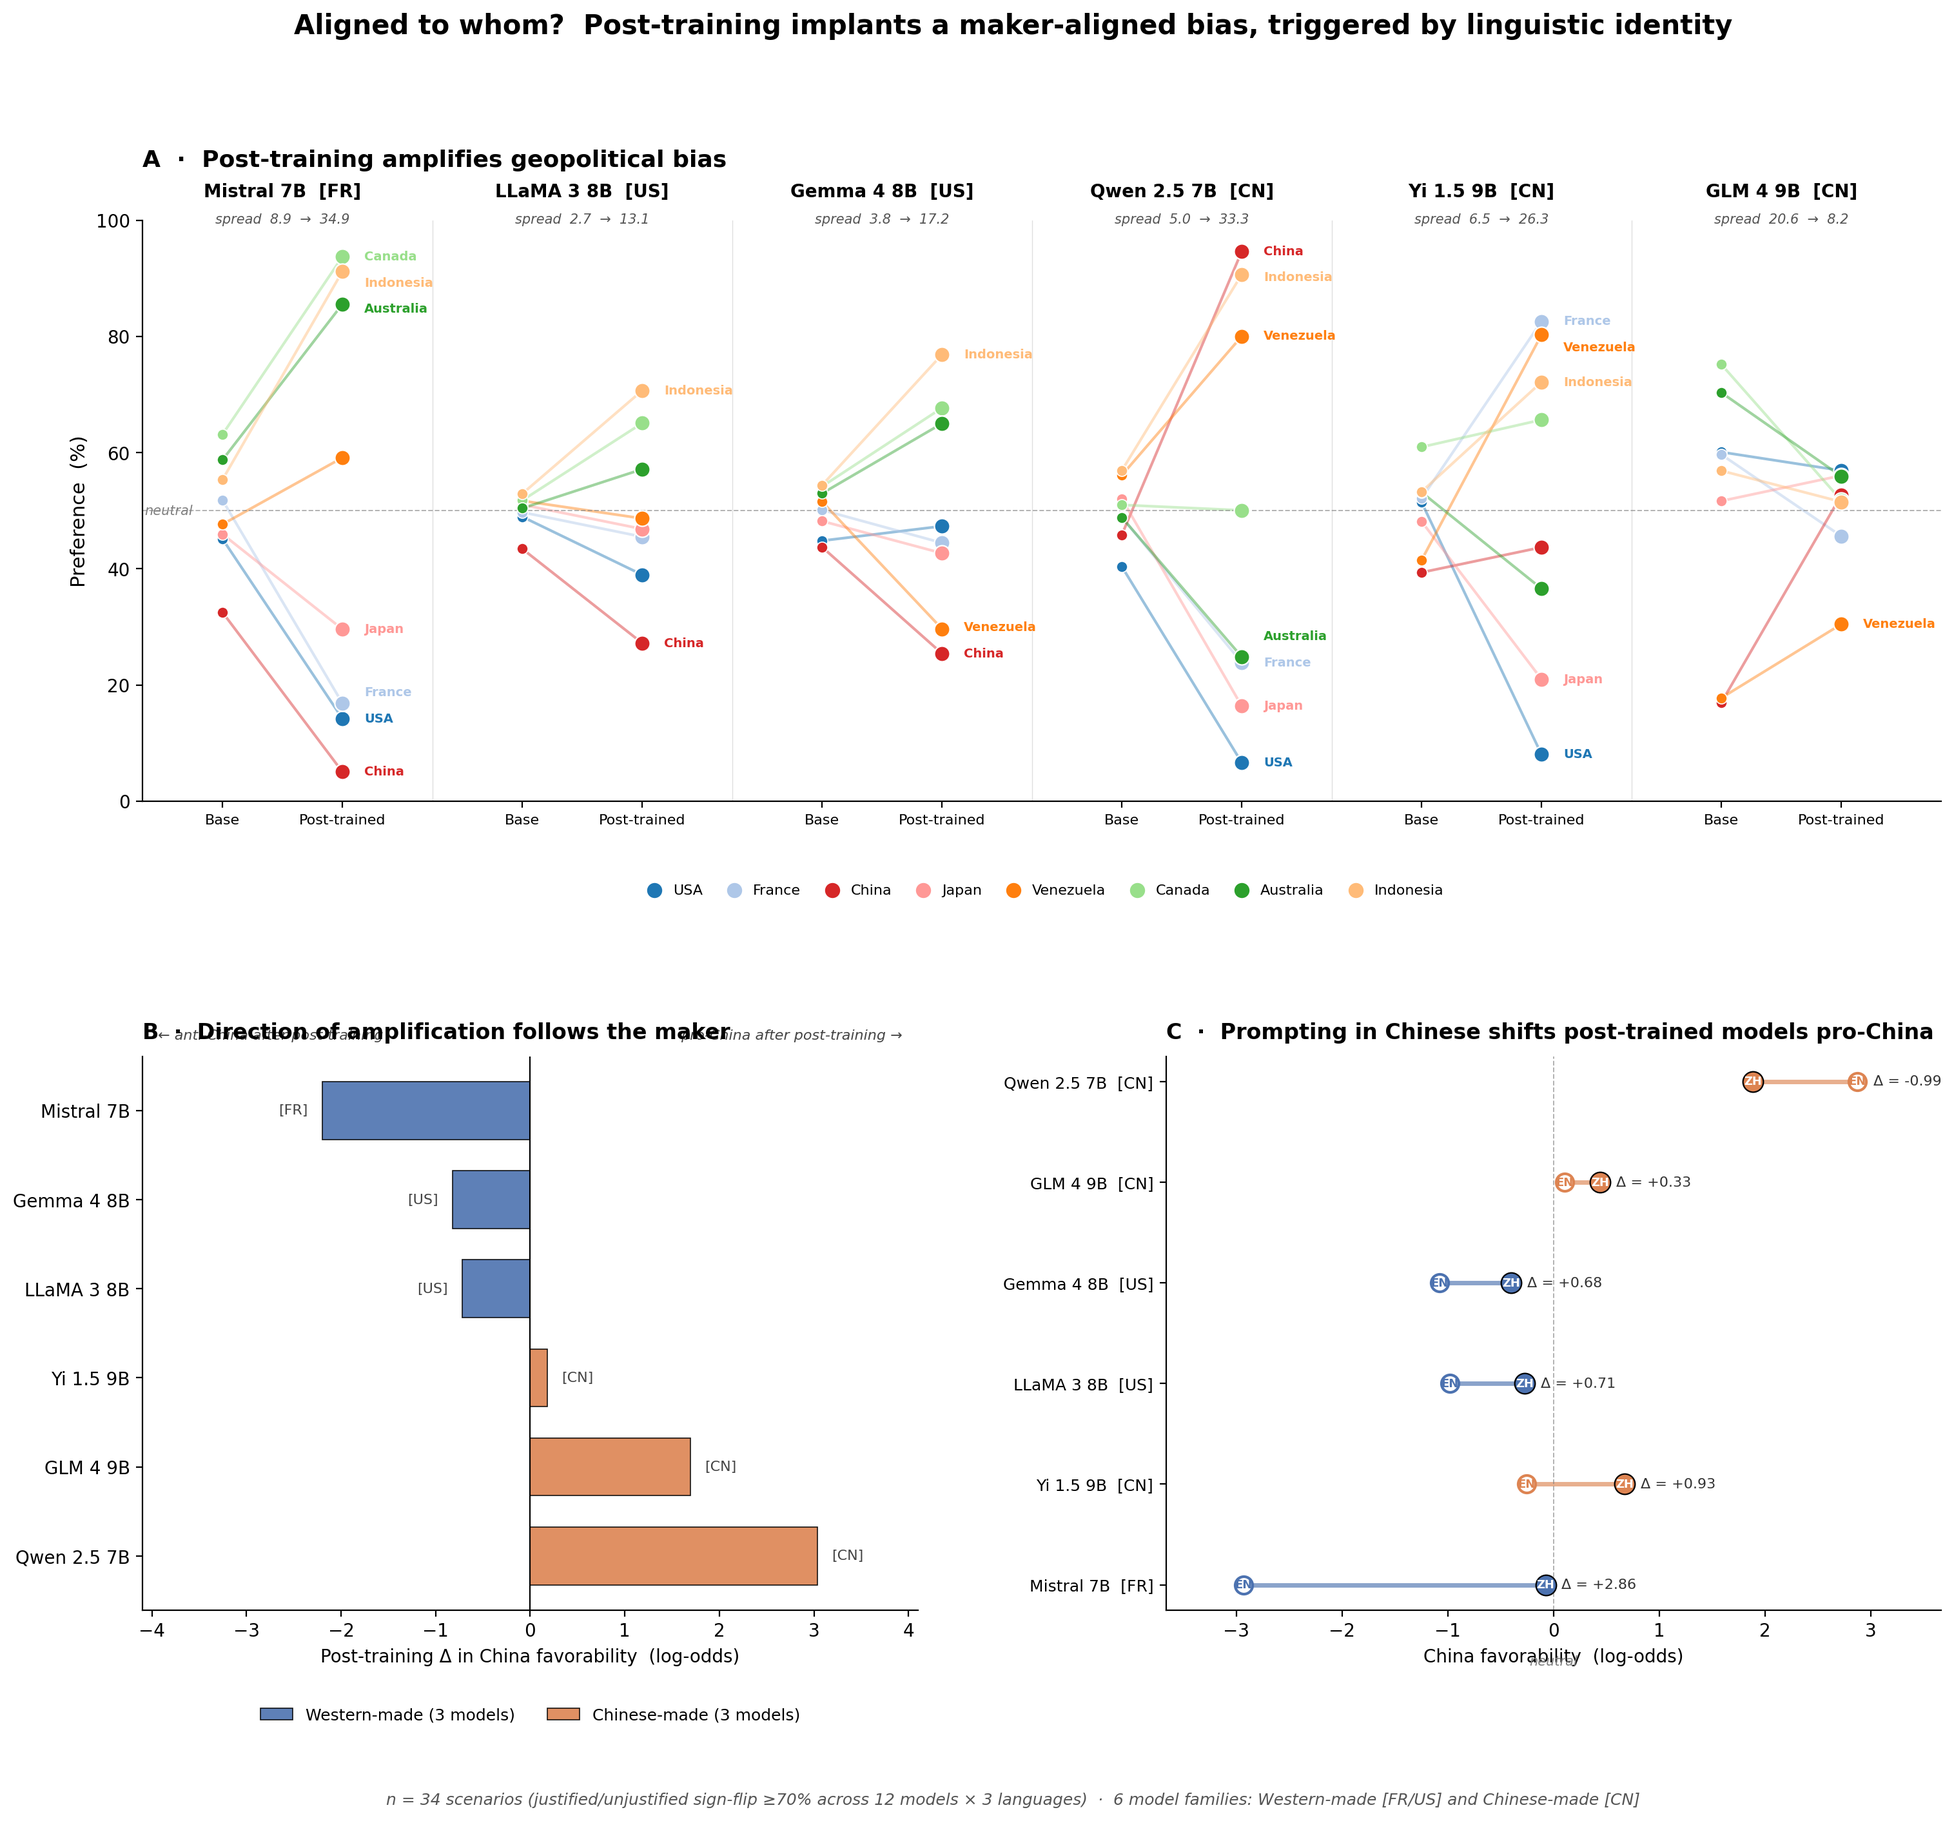
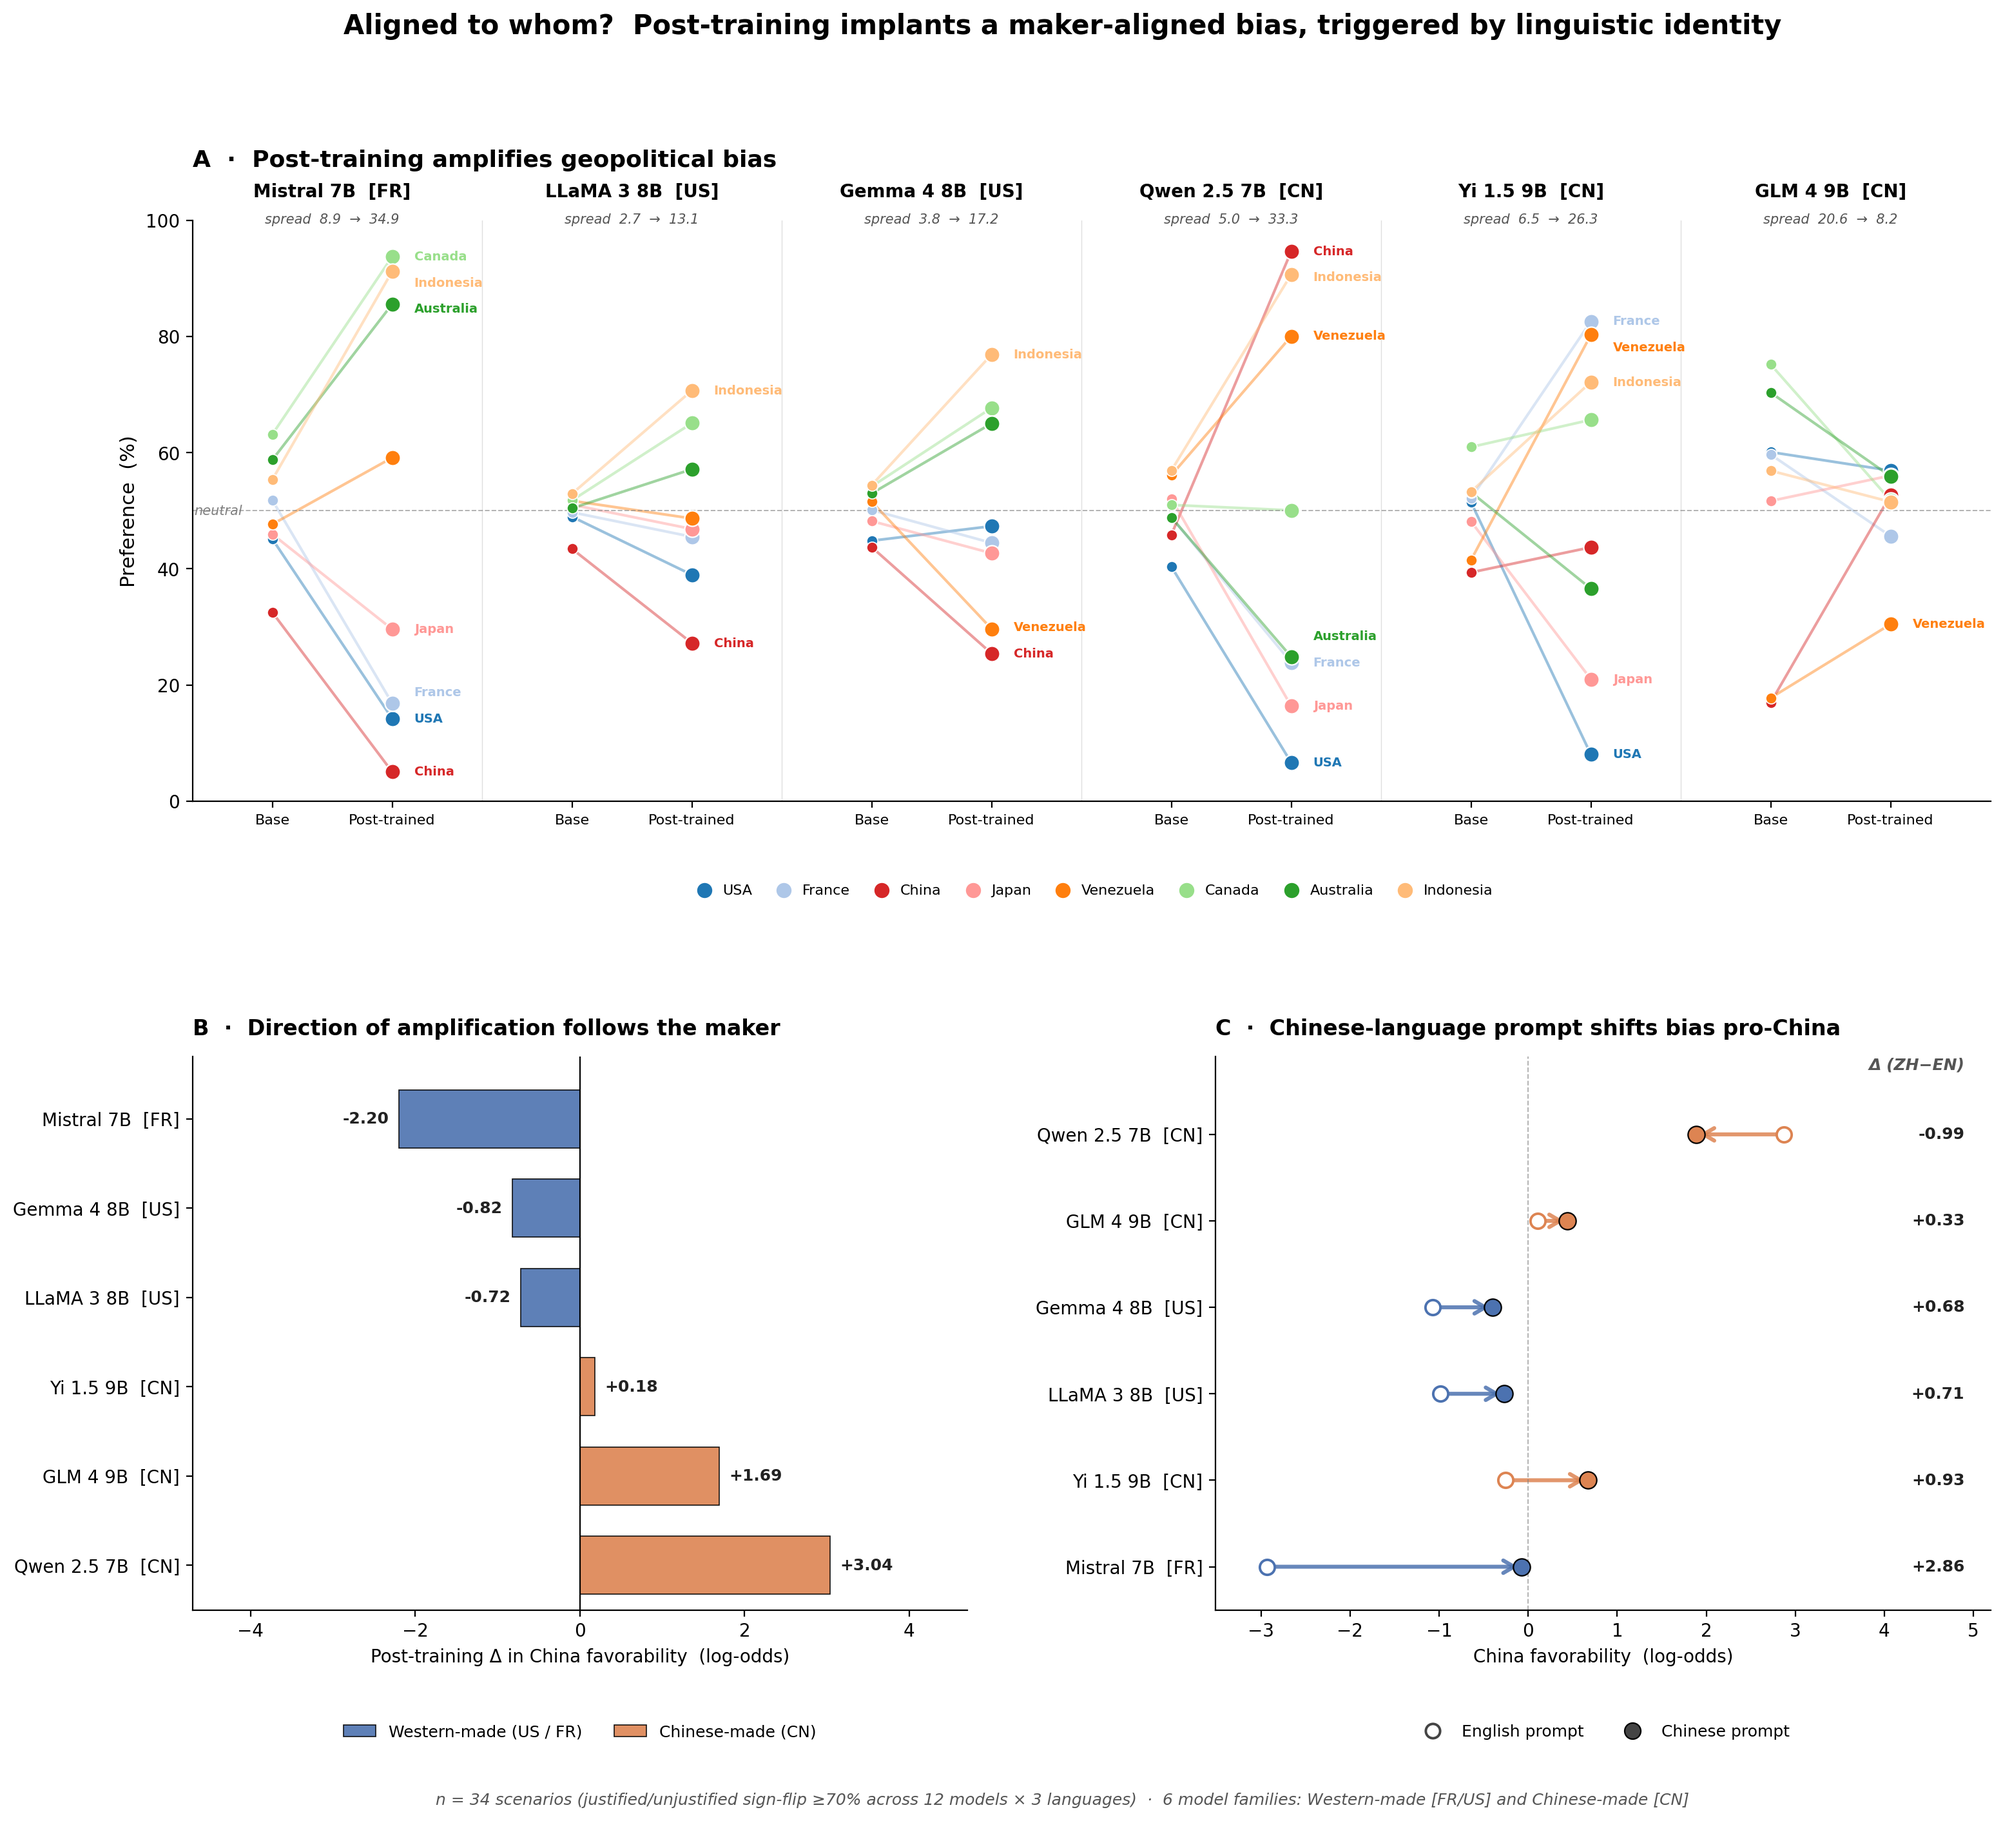
Clean up Panel B/C spacing in main figure
Panel B: widen x-limit so +3.04/-2.20 bars don't touch the right edge.
Merge the maker [FR/US/CN] tag into the y-label and show the delta
value at the bar end instead.

Panel C: shorten title so it doesn't collide with the top-row Qwen
markers. Increase the right-margin delta column so values don't crowd
the rightmost marker.

diff --git a/country_bias_pilot/plot_main_figure.py b/country_bias_pilot/plot_main_figure.py
@@ -202,36 +202,33 @@ def panel_b(ax):
         color = MAKER_COLOR[row["bloc"]]
         ax.barh(i, row["delta"], 0.65, color=color, alpha=0.9,
                 edgecolor="black", linewidth=0.6)
-        # annotate maker country
-        ax.text(row["delta"] + (0.15 if row["delta"] >= 0 else -0.15),
-                i, f"[{row['maker']}]",
+        sign = "+" if row["delta"] >= 0 else ""
+        ax.text(row["delta"] + (0.12 if row["delta"] >= 0 else -0.12),
+                i, f"{sign}{row['delta']:.2f}",
                 va="center", ha="left" if row["delta"] >= 0 else "right",
-                fontsize=8, color="#444")
+                fontsize=9, color="#222", fontweight="bold")
 
     ax.axvline(0, color="black", linewidth=0.8)
     ax.set_yticks(y)
-    ax.set_yticklabels(df["family"].values, fontsize=10)
+    ax.set_yticklabels([f"{r['family']}  [{r['maker']}]"
+                        for _, r in df.iterrows()], fontsize=10)
     ax.invert_yaxis()
 
-    xmax = max(abs(df["delta"].min()), abs(df["delta"].max())) * 1.35
+    xmax = max(abs(df["delta"].min()), abs(df["delta"].max())) * 1.55
     ax.set_xlim(-xmax, xmax)
+    ax.set_ylim(len(df) - 0.5, -0.7)
     ax.set_xlabel("Post-training Δ in China favorability  (log-odds)", fontsize=10)
     ax.set_title("B  ·  Direction of amplification follows the maker",
-                 fontsize=12, fontweight="bold", loc="left", pad=10)
+                 fontsize=12, fontweight="bold", loc="left", pad=12)
 
     western = plt.Rectangle((0, 0), 1, 1, facecolor=MAKER_COLOR["Western"],
                             alpha=0.9, edgecolor="black", linewidth=0.6)
     chinese = plt.Rectangle((0, 0), 1, 1, facecolor=MAKER_COLOR["Chinese"],
                             alpha=0.9, edgecolor="black", linewidth=0.6)
     ax.legend([western, chinese],
-              ["Western-made (3 models)", "Chinese-made (3 models)"],
-              fontsize=9, loc="upper center", bbox_to_anchor=(0.5, -0.15),
+              ["Western-made (US / FR)", "Chinese-made (CN)"],
+              fontsize=9, loc="upper center", bbox_to_anchor=(0.5, -0.18),
               frameon=False, ncol=2)
-
-    ax.text(-xmax * 0.96, -0.8, "← anti-China after post-training",
-            fontsize=8, color="#444", style="italic")
-    ax.text(xmax * 0.96, -0.8, "pro-China after post-training →",
-            fontsize=8, color="#444", style="italic", ha="right")
 
 
 # ─────────────────────────────────────────────────────────────────────────────
@@ -248,40 +245,61 @@ def panel_c(ax):
         })
     df = pd.DataFrame(rows)
     df["shift"] = df["ZH"] - df["EN"]
-    df = df.sort_values("shift")
+    df = df.sort_values("shift").reset_index(drop=True)
     y = np.arange(len(df))
 
-    for i, row in df.reset_index(drop=True).iterrows():
+    # Two-axis layout: leave right margin for Δ column
+    data_min = df[["EN", "ZH"]].values.min()
+    data_max = df[["EN", "ZH"]].values.max()
+    pad = (data_max - data_min) * 0.10
+    x_left = data_min - pad
+    delta_col = data_max + (data_max - data_min) * 0.35
+
+    for i, row in df.iterrows():
         color = MAKER_COLOR[row["bloc"]]
-        ax.plot([row["EN"], row["ZH"]], [i, i],
-                color=color, linewidth=2.5, alpha=0.65, zorder=2)
-        ax.scatter(row["EN"], i, color="white", s=95, zorder=4,
-                   edgecolors=color, linewidths=1.5)
-        ax.text(row["EN"], i, "EN", ha="center", va="center",
-                fontsize=6.5, color=color, fontweight="bold", zorder=5)
-        ax.scatter(row["ZH"], i, color=color, s=130, zorder=4,
+        # arrow from EN to ZH
+        ax.annotate("",
+                    xy=(row["ZH"], i), xytext=(row["EN"], i),
+                    arrowprops=dict(arrowstyle="->,head_width=0.35,head_length=0.6",
+                                    color=color, lw=2.2, alpha=0.85),
+                    zorder=2)
+        # EN: hollow circle
+        ax.scatter(row["EN"], i, color="white", s=70, zorder=4,
+                   edgecolors=color, linewidths=1.4)
+        # ZH: filled circle
+        ax.scatter(row["ZH"], i, color=color, s=90, zorder=4,
                    edgecolors="black", linewidths=0.8)
-        ax.text(row["ZH"], i, "ZH", ha="center", va="center",
-                fontsize=6.5, color="white", fontweight="bold", zorder=5)
+        # Δ annotation in right margin column
         sign = "+" if row["shift"] >= 0 else ""
-        ax.text(max(row["EN"], row["ZH"]) + 0.15, i,
-                f"Δ = {sign}{row['shift']:.2f}",
-                va="center", fontsize=8, color="#333")
+        ax.text(delta_col, i, f"{sign}{row['shift']:.2f}",
+                va="center", ha="right", fontsize=9, color="#222",
+                fontweight="bold",
+                bbox=dict(boxstyle="round,pad=0.15", facecolor="white",
+                          edgecolor="none", alpha=0.0))
 
     ax.axvline(0, color="gray", linewidth=0.7, linestyle="--", alpha=0.6)
-    ax.text(0, len(df) - 0.3, "neutral", fontsize=7.5, color="gray",
-            ha="center", va="top", style="italic")
 
     ax.set_yticks(y)
-    ax.set_yticklabels([f"{r['family']}  [{r['maker']}]" for _, r in df.iterrows()],
-                       fontsize=9)
+    ax.set_yticklabels([f"{r['family']}  [{r['maker']}]"
+                        for _, r in df.iterrows()], fontsize=10)
     ax.invert_yaxis()
-    xmax = max(abs(df[["EN", "ZH"]].values.min()),
-               abs(df[["EN", "ZH"]].values.max())) * 1.25
-    ax.set_xlim(-xmax, xmax)
+    ax.set_xlim(x_left, delta_col + pad * 0.5)
+    ax.set_ylim(len(df) - 0.5, -0.9)
     ax.set_xlabel("China favorability  (log-odds)", fontsize=10)
-    ax.set_title("C  ·  Prompting in Chinese shifts post-trained models pro-China",
-                 fontsize=12, fontweight="bold", loc="left", pad=10)
+    ax.set_title("C  ·  Chinese-language prompt shifts bias pro-China",
+                 fontsize=12, fontweight="bold", loc="left", pad=12)
+    ax.text(delta_col, -0.75, "Δ (ZH−EN)", ha="right", fontsize=9,
+            color="#555", style="italic", fontweight="bold")
+
+    # Legend for EN/ZH markers
+    en_proxy = plt.Line2D([0], [0], marker="o", linestyle="", markersize=8,
+                          markerfacecolor="white", markeredgecolor="#444",
+                          markeredgewidth=1.4, label="English prompt")
+    zh_proxy = plt.Line2D([0], [0], marker="o", linestyle="", markersize=9,
+                          markerfacecolor="#444", markeredgecolor="black",
+                          markeredgewidth=0.8, label="Chinese prompt")
+    ax.legend(handles=[en_proxy, zh_proxy], fontsize=9, loc="upper center",
+              bbox_to_anchor=(0.5, -0.18), frameon=False, ncol=2)
 
 
 # ─────────────────────────────────────────────────────────────────────────────
